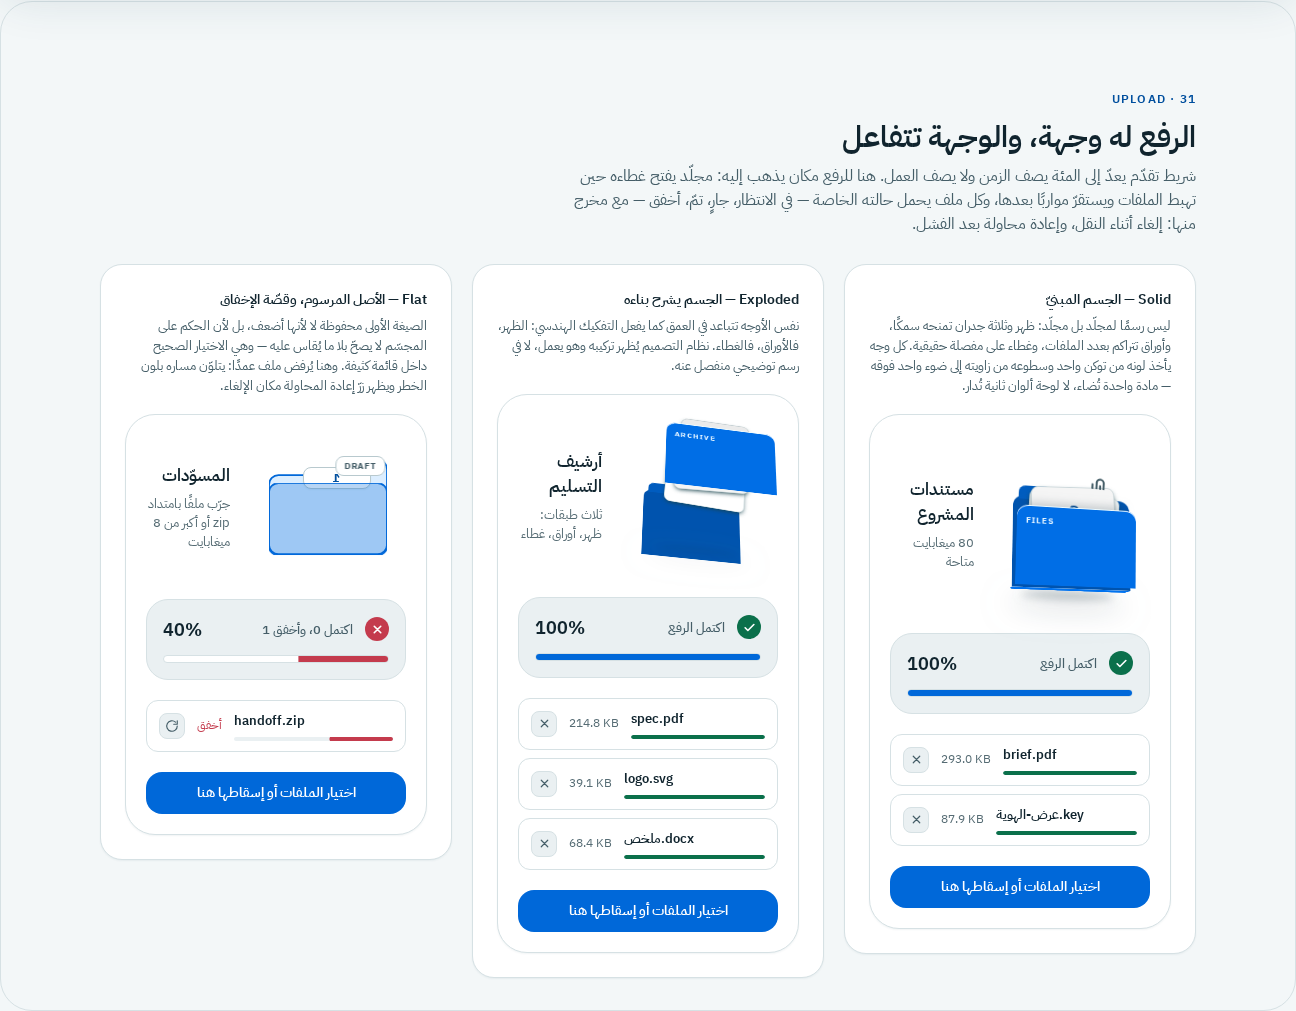
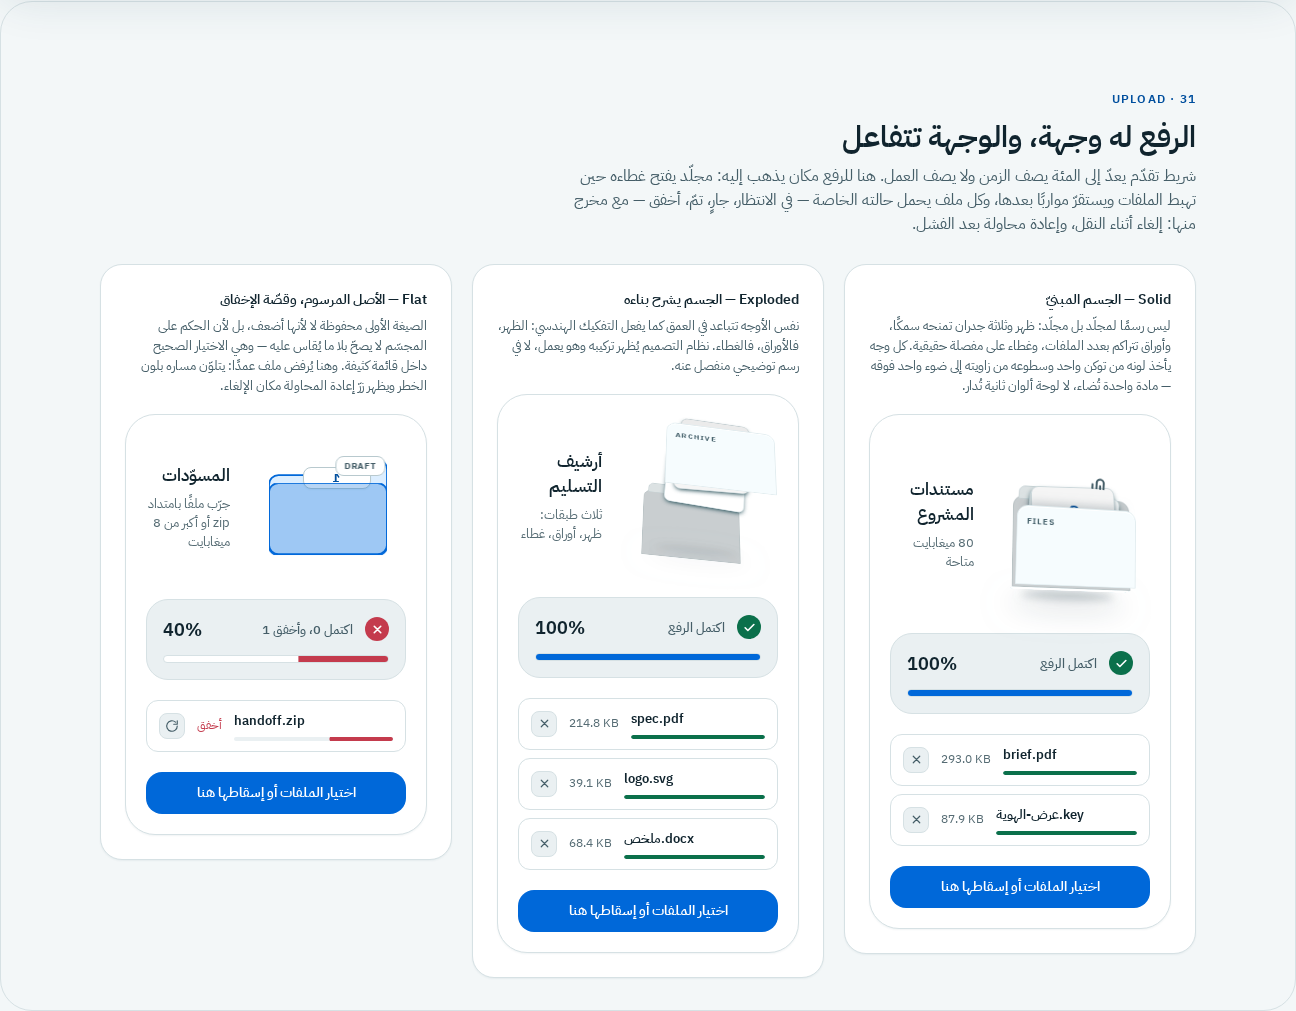
Distribute colour the way the references do, and stop the count mirroring
A second batch of visual references arrived, mostly electricity meters. Its
verdicts are recorded next to the first batch's, and the outcome is asymmetric:
what it added is one rule, and what it repeated is one refusal.

The rule is colour distribution, and it caught a mistake in my own work. In the
strongest reference the folders are white on light grey and every colour lives
in what they hold — the photographs, the flags, the yellow note. Nova's upload
folder was painted entirely in the action colour, so a large blue object stood
beside a large blue button beside a blue progress bar: three things asking for
the same attention in one composition. The body is now a neutral material that
reads by light rather than by fill, and the action colour is back to marking the
action, the state and the content. The lighting values were retuned for a
neutral, which has far less headroom than a saturated one.

That change exposed two bugs of its own. The material had been set on the shared
face class, so the paperclip and the count — which use that class only to get a
3D transform — arrived wearing a surface and a border. And the count was
rendering back to front in Arabic: it sits inside the mirrored wrapper and
carries its own inline transform, and an inline transform cannot be
counter-mirrored by a class, because the inline rule wins outright. It composes
the flip itself now through a variable the scene sets per direction.
[…]

Changed region(s): [[0.4938, 0.3986, 0.6173, 0.5519], [0.7716, 0.4599, 0.8951, 0.6133]]

diff --git a/src/madar/components/upload.tsx b/src/madar/components/upload.tsx
@@ -92,11 +92,11 @@ const TAB_H = 15;
    reading direction. See design-system/VISUAL-LAW.md §2. The two side walls
    therefore carry the same value; nothing here is brighter on one side. */
 const LIGHT = {
-  back: 0.80,
-  tab: 0.88,
-  bottomWall: 1.10,
-  sideWall: 0.92,
-  lid: 1.06,
+  back: 0.86,
+  tab: 0.94,
+  bottomWall: 1.09,
+  sideWall: 0.95,
+  lid: 1.05,
 };
 
 function Face({
@@ -112,7 +112,16 @@ function Face({
     <div
       data-folder-part={part}
       className="madar-folder-face"
-      style={{ filter: `brightness(${brightness})`, ...style }}
+      style={{
+        // VISUAL-LAW.md §9: the containers in the references are neutral and
+        // the colour belongs to what they hold. An object painted in the action
+        // colour competes with the action button beside it, so the body is a
+        // material that reads by light instead of by fill.
+        background: 'var(--surface-2)',
+        border: '1px solid var(--border)',
+        filter: `brightness(${brightness})`,
+        ...style,
+      }}
     >
       {children}
     </div>
@@ -303,14 +312,15 @@ function Folder({
           {/* the count, printed on the topmost sheet rather than floating */}
           {count > 0 && (
             <div
-              className="madar-folder-face"
+              data-folder-part="count"
+              className="madar-folder-face madar-folder-legend"
               style={{
                 insetInlineStart: 15 + (sheets - 1) * 4, top: H - LID_H,
                 width: W - 30 - (sheets - 1) * 8, height: LID_H - 6,
                 background: 'transparent',
                 display: 'grid', justifyItems: 'center', alignItems: 'start',
                 paddingBlockStart: 13,
-                transform: `translateZ(${6 + (sheets - 1) * 3 + spread * (22 + (sheets - 1) * 18)}px) translateY(${-open * (48 + (sheets - 1) * 15)}px) rotateZ(${SLIP_TILT[Math.max(0, sheets - 1)]}deg)`,
+                transform: `translateZ(${6 + (sheets - 1) * 3 + spread * (22 + (sheets - 1) * 18)}px) translateY(${-open * (48 + (sheets - 1) * 15)}px) rotateZ(${SLIP_TILT[Math.max(0, sheets - 1)]}deg) scaleX(var(--madar-mirror))`,
                 fontSize: 20, fontWeight: 700, color: 'var(--accent-ink)',
                 fontVariantNumeric: 'tabular-nums',
               }}
@@ -366,7 +376,7 @@ function Folder({
               style={{
                 position: 'absolute', insetInlineStart: 10, top: 9,
                 fontSize: 9, fontWeight: 700, letterSpacing: '0.14em',
-                color: 'var(--on-accent)', opacity: 0.85, whiteSpace: 'nowrap',
+                color: 'var(--text-2)', whiteSpace: 'nowrap',
               }}
             >
               {label}

diff --git a/src/madar/bridge.css b/src/madar/bridge.css
@@ -125,6 +125,12 @@
 [dir="rtl"] .madar-folder-mirror { transform: scaleX(-1); }
 [dir="rtl"] .madar-folder-legend { transform: scaleX(-1); }
 
+/* An element that carries its own inline transform cannot be counter-mirrored
+   by a class — the inline rule wins outright. It composes the flip in itself
+   through this variable instead. */
+.madar-folder-scene { --madar-mirror: 1; }
+[dir="rtl"] .madar-folder-scene { --madar-mirror: -1; }
+
 .madar-folder-scene {
   position: relative;
   transform-style: preserve-3d;
@@ -161,7 +167,6 @@
 
 .madar-folder-face {
   position: absolute;
-  background: var(--accent);
   transform-style: preserve-3d;
   backface-visibility: hidden;
   transition:

diff --git a/design-system/VISUAL-LAW.md b/design-system/VISUAL-LAW.md
@@ -19,6 +19,19 @@
 
 **القاعدة المستخلصة من الفرز نفسه:** التغذية البصرية تُقرأ، ولا تُقلَّد. المرجع الذي فيه جسم يُؤخذ، والمرجع الذي فيه شكل مسطّح يُرفض ولو جاء في الحزمة نفسها.
 
+### الدفعة الثانية: الرفض نفسه يتكرّر، والقبول يتّسع
+
+جاءت دفعة ثانية من التغذية، أكثرها عدّادات كهرباء. حكمها:
+
+| المرجع | الحكم |
+|---|---|
+| **صورة فوتوغرافية لعدّاد حقيقي** (Iskra) | **مأخوذ — مرجع مادة.** بلاستيك له لمعة حقيقية وحروف مطبوعة وحوافّ مصنَّعة. هذا ما يعنيه «تفصيل» |
+| **رندر ثلاثي لعدّادات** | **مأخوذ — مرجع بنية وزاوية** |
+| **مجسّم لوحة كهرباء ثلاثي الأبعاد** | **مأخوذ في المبدأ**: سمك وظلّ وزاوية واحدة معلنة |
+| **أربعة رسوم مسطّحة لعدّادات** + طقم أيقونات أيزومترية مسطّح | **مرفوض — للمرة الثانية.** بلا سمك ولا ظلّ ولا زاوية، وشخصيات بنسب قياسية. تكرار المرجع لا يغيّر حكمه |
+
+ولأن الرفض تكرّر، يُسجَّل صراحةً: **ورود مرجع مرّتين ليس حجّة على قبوله.** الحكم على المرجع من بنيته لا من تكراره.
+
 ---
 
 ## ثانيًا: القانون
@@ -72,6 +85,22 @@
 كل تفصيل يُضاف يجيب: **أي معلومة يحمل؟** مشبك الورق في يوميات السفر يقول «مُرفَق». في مجلّد الرفع لا يظهر المشبك إلا حين يكتمل الرفع، فيقول «حُفِظ». مشبك يظهر دائمًا زخرفة، ومشبك يظهر عند حالة معيّنة لغة.
 
 هذا هو الفرق الذي يفصل هذا القانون عن «أضف تفاصيل أكثر»: **التفصيل بلا حالة زينة، والزينة سلوب مهما كان متقنًا.**
+
+### 9. توزيع اللون: الحاوية محايدة، واللون فيما تحويه
+
+هذه أهمّ ما أضافته الدفعة الثانية من التغذية، وقد كشفت خطأً في تنفيذنا نحن.
+
+في المرجع الأقوى — مجلّدات يوميات السفر — **المجلّد نفسه أبيض على أرضية رمادية فاتحة**، وكل اللون في الصور والأعلام والملاحظة الصفراء. الحاوية مادة، والمحتوى هو الذي يلوّن.
+
+كان مجلّد الرفع عندنا مطليًّا كاملًا بلون الفعل `--accent`، فصار **يزاحم زرّ الفعل الواقف بجانبه**: جسم أزرق كبير، وزرّ أزرق كبير، وشريط تقدّم أزرق — ثلاثة أشياء بالأهمية نفسها في تكوين واحد.
+
+> **القانون: الأجسام والحاويات مادة محايدة تُقرأ بالضوء لا بالحشو. ولون الفعل يبقى للفعل والحالة والمحتوى.**
+
+الاختبار العملي: لو أزلت اللون من الشاشة كلها وأبقيته في موضع واحد، أيّ موضع تختار؟ ذلك وحده يستحقّه.
+
+### 10. الموكاب عرضٌ لا زخرفة
+
+مراجع البورتفوليو تعرض الشاشات داخل أجهزة موضوعة على أسطح لها مادة: صخر، ورمل، وأشكال ثلاثية. هذا مشروع بشرط واحد: **الموكاب يخدم قراءة الشاشة لا يزاحمها.** السطح تحت الجهاز يبقى محايدًا أو خارج نطاق التركيز، والجهاز بزاوية واحدة معلنة، والظلّ في موضعه من الضوء نفسه المذكور في §2. موكابٌ خلفيته أكثر تفصيلًا من الشاشة التي يعرضها فشلٌ في العرض لا نجاح فيه.
 
 ---
 

diff --git a/gates/07-visual-law.md b/gates/07-visual-law.md
@@ -52,3 +52,18 @@ so these gates cover both the written rule and its reference implementation in
   CHECK: node -e "const s=require('fs').readFileSync('src/madar/components/upload.tsx','utf8');const raw=[...s.matchAll(/#[0-9a-fA-F]{3,8}\b|\b(?:rgba?|hsla?|oklch)\(/g)].map(m=>m[0]);console.log(raw.length?'RAW_COLOR '+[...new Set(raw)].join(','):'TOKENS_ONLY')"
   EXPECT: TOKENS_ONLY
   EVIDENCE: TOKENS_ONLY
+
+- [x] G10: Colour is distributed the way the references distribute it — the object is a neutral material, not a swatch of the action colour
+  CHECK: node -e "const f=require('fs');const c=f.readFileSync('src/madar/components/upload.tsx','utf8');const face=/background: 'var\(--surface-2\)',\s*\n\s*border: '1px solid var\(--border\)',/.test(c);const law=f.readFileSync('design-system/VISUAL-LAW.md','utf8').includes('الحاوية محايدة');console.log(face&&law?'MATERIAL_NOT_SWATCH':'ACCENT_AS_BODY '+[face,law].join())"
+  EXPECT: MATERIAL_NOT_SWATCH
+  EVIDENCE: MATERIAL_NOT_SWATCH
+
+- [x] G11: Text does not mirror with the object it sits on, even when it carries its own transform
+  CHECK: node -e 'const f=require("fs");const css=f.readFileSync("src/madar/bridge.css","utf8");const c=f.readFileSync("src/madar/components/upload.tsx","utf8");const varSet=/rtl.\] \.madar-folder-scene \{ --madar-mirror: -1; \}/.test(css)&&/\.madar-folder-scene \{ --madar-mirror: 1; \}/.test(css);const used=/scaleX\(var\(--madar-mirror\)\)/.test(c);const legend=/madar-folder-legend/.test(c);console.log(varSet&&used&&legend?"TEXT_UNMIRRORED":"TEXT_MIRRORS "+[varSet,used,legend].join())'
+  EXPECT: TEXT_UNMIRRORED
+  EVIDENCE: TEXT_UNMIRRORED
+
+- [x] G12: The second batch's repeated refusal is on record, so sending a reference twice is not mistaken for accepting it
+  CHECK: node -e "const d=require('fs').readFileSync('design-system/VISUAL-LAW.md','utf8');const need=['الدفعة الثانية','للمرة الثانية','ليس حجّة على قبوله','الموكاب عرضٌ لا زخرفة'];const miss=need.filter(n=>!d.includes(n));console.log(miss.length?'BATCH2_UNRECORDED '+miss.join(','):'BATCH2_RECORDED')"
+  EXPECT: BATCH2_RECORDED
+  EVIDENCE: BATCH2_RECORDED
